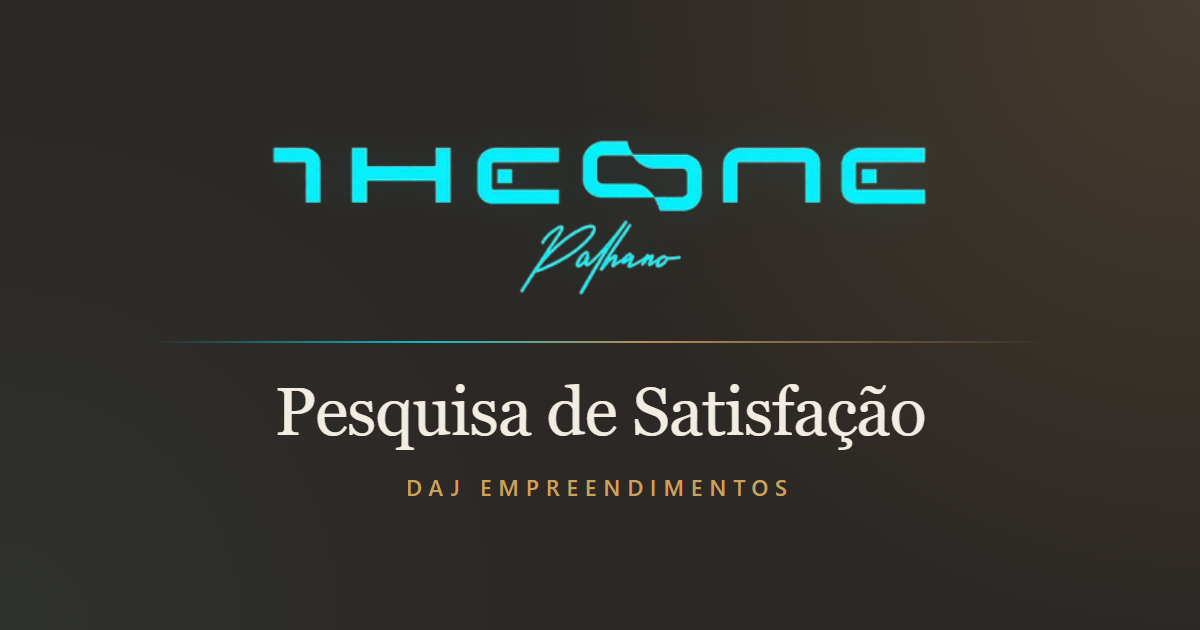
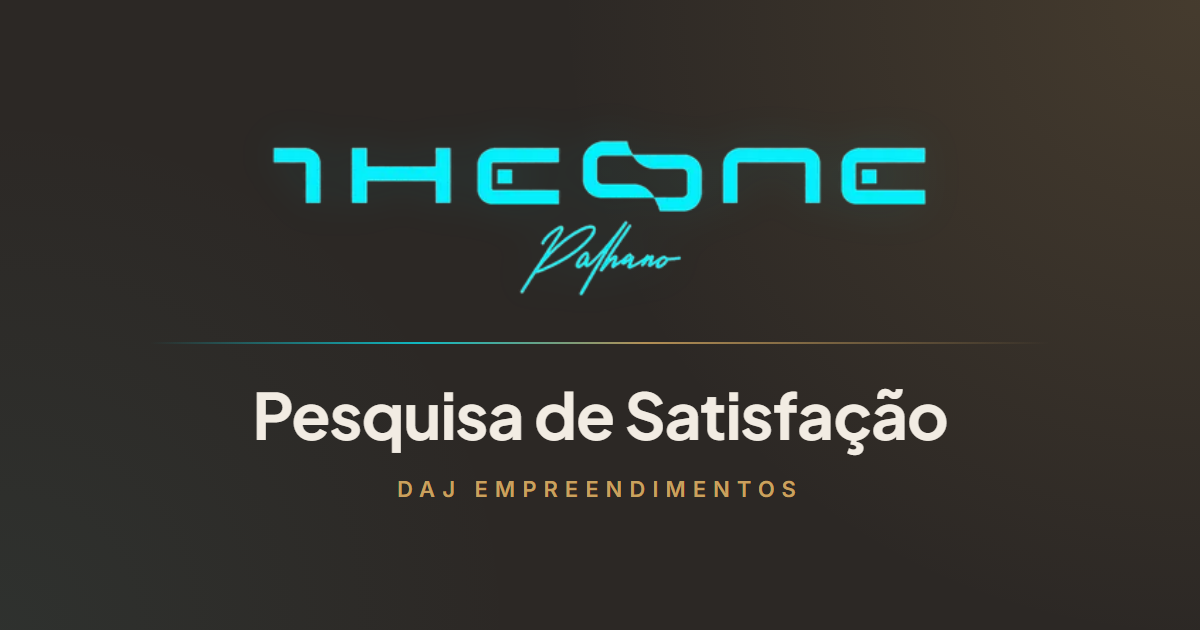
Fonte mais natural nos títulos

diff --git a/index.html b/index.html
@@ -18,7 +18,7 @@
[1 lines of base64/hex data omitted]
 <link rel="preconnect" href="https://fonts.googleapis.com">
 <link rel="preconnect" href="https://fonts.gstatic.com" crossorigin>
-<link href="https://fonts.googleapis.com/css2?family=Inter:wght@400;500;600;700&display=swap" rel="stylesheet">
+<link href="https://fonts.googleapis.com/css2?family=Inter:wght@400;500;600;700&family=Plus+Jakarta+Sans:wght@500;600;700&display=swap" rel="stylesheet">
 <style>
   /* Visual do Diagnóstico de Investimento, com todas as perguntas numa tela só */
   :root {
@@ -30,7 +30,7 @@
     --turq: #06effd;
     --err: #e07d72;
     --line: rgba(202, 161, 94, 0.30);
-    --display: Georgia, Cambria, "Times New Roman", serif;
+    --display: "Plus Jakarta Sans", "Inter", ui-sans-serif, system-ui, sans-serif;
     --sans: "Inter", ui-sans-serif, system-ui, -apple-system, "Segoe UI", sans-serif;
     color-scheme: dark;
   }
@@ -64,7 +64,7 @@
     background: linear-gradient(90deg, transparent 3%, rgba(6,239,253,.72) 18%, rgba(202,161,94,.82) 52%, rgba(6,239,253,.48) 82%, transparent 97%);
   }
   .logo { display: block; width: 260px; max-width: 72vw; height: auto; margin: 0 auto; filter: drop-shadow(0 0 18px rgba(6,239,253,.08)); }
-  .hero h1 { font: 500 2rem/1.1 var(--display); letter-spacing: -0.035em; margin: 28px 0 0; text-wrap: balance; }
+  .hero h1 { font: 700 2rem/1.15 var(--display); letter-spacing: -0.02em; margin: 28px 0 0; text-wrap: balance; }
   .hero p { margin: 12px auto 0; max-width: 30rem; font-size: 15px; color: var(--muted); }
 
   form { padding-block: 8px 40px; }
@@ -72,7 +72,7 @@
   fieldset + fieldset { margin-top: 20px; }
   legend { padding: 0; display: flex; gap: 12px; align-items: baseline; }
   .qn { color: var(--gold); font-size: 12px; font-weight: 700; letter-spacing: .12em; font-variant-numeric: tabular-nums; }
-  .qt { font: 500 1.3rem/1.25 var(--display); letter-spacing: -0.02em; }
+  .qt { font: 600 1.15rem/1.35 var(--display); letter-spacing: -0.01em; }
   .req { color: var(--turq); }
   .helper { margin: 6px 0 0 30px; font-size: 13px; color: var(--muted); }
 
@@ -110,7 +110,7 @@
 
   .notas .answer { flex-direction: column; justify-content: center; gap: 2px; padding: 10px 4px; min-height: 72px; text-align: center; }
   .notas .answer::before, .notas .answer::after { width: 14px; height: 14px; }
-  .nota-n { font: 500 1.5rem/1 var(--display); color: var(--gold); }
+  .nota-n { font: 700 1.4rem/1 var(--display); color: var(--gold); }
   .answer:has(input:checked) .nota-n { color: #7af7ff; }
   .nota-t { font-size: 11px; font-weight: 600; color: var(--muted); }
   .escala { display: flex; justify-content: space-between; margin-top: 6px; font-size: 11px; color: var(--muted); }
@@ -145,7 +145,7 @@
     border: 1px solid rgba(6,239,253,.4); background: rgba(6,239,253,.1); color: var(--turq);
   }
   .badge svg { width: 24px; height: 24px; }
-  .done h2 { margin: 24px 0 0; font: 500 2.2rem/1.1 var(--display); letter-spacing: -0.035em; }
+  .done h2 { margin: 24px 0 0; font: 700 2rem/1.15 var(--display); letter-spacing: -0.02em; }
   .done p { margin: 12px auto 0; max-width: 28rem; color: var(--muted); line-height: 1.7; }
 
   .sign {
